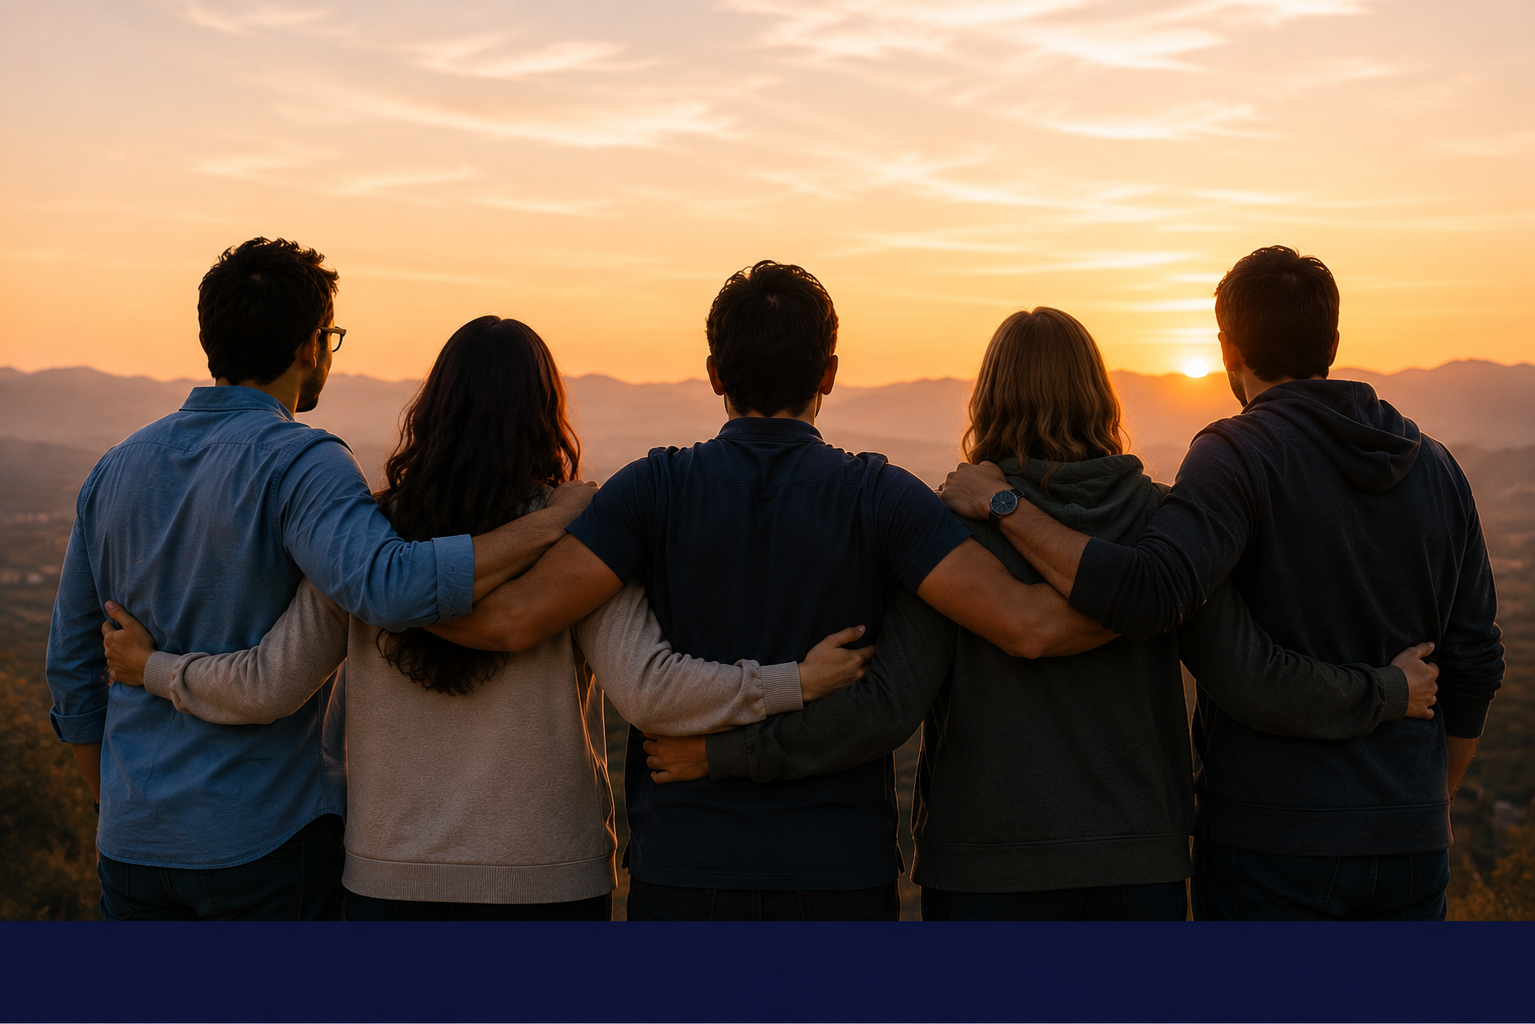
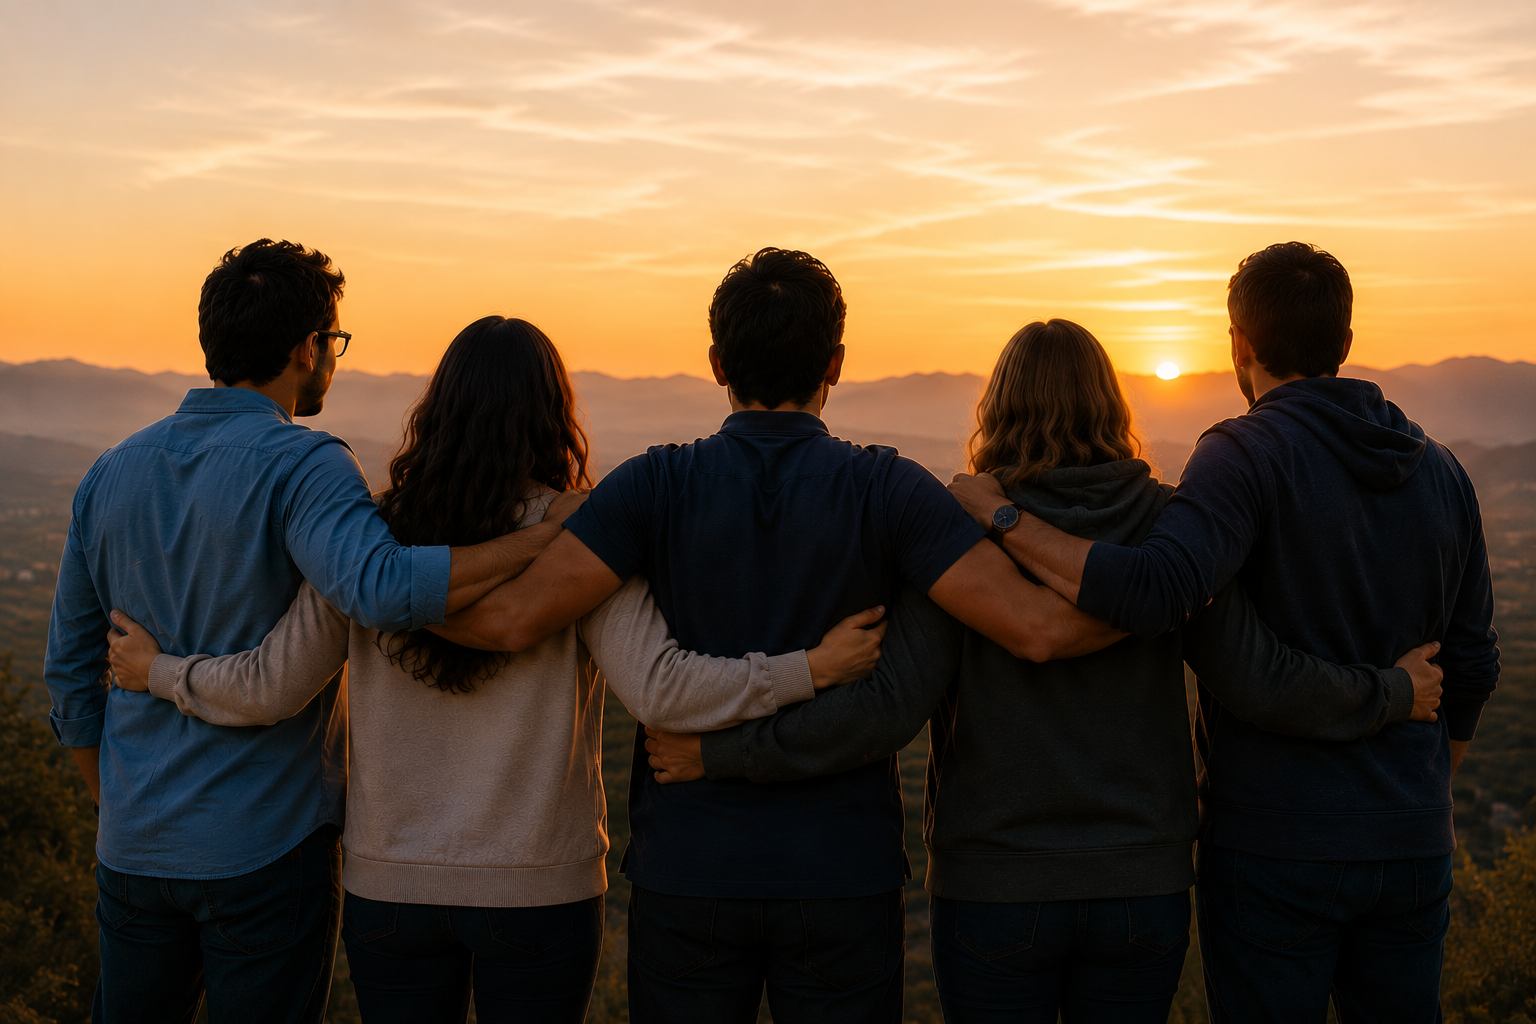
Actualizar imagen y framing de la landing

diff --git a/index.html b/index.html
@@ -60,7 +60,7 @@
 
   <section class="section-dark">
     <div style="width:100%;height:320px;overflow:hidden">
-      <img src="assets/hero-hands.png?v=2" alt="Grupo mirando el atardecer, de espaldas" style="width:100%;height:100%;object-fit:cover;display:block">
+      <img src="assets/hero-hands.png?v=3" alt="Grupo mirando el atardecer, de espaldas" style="width:100%;height:100%;object-fit:cover;display:block">
     </div>
     <div style="padding:64px 32px 96px">
       <div class="container grid-2" style="display:grid;grid-template-columns:1.3fr 1fr;gap:48px;align-items:center;padding:0">
